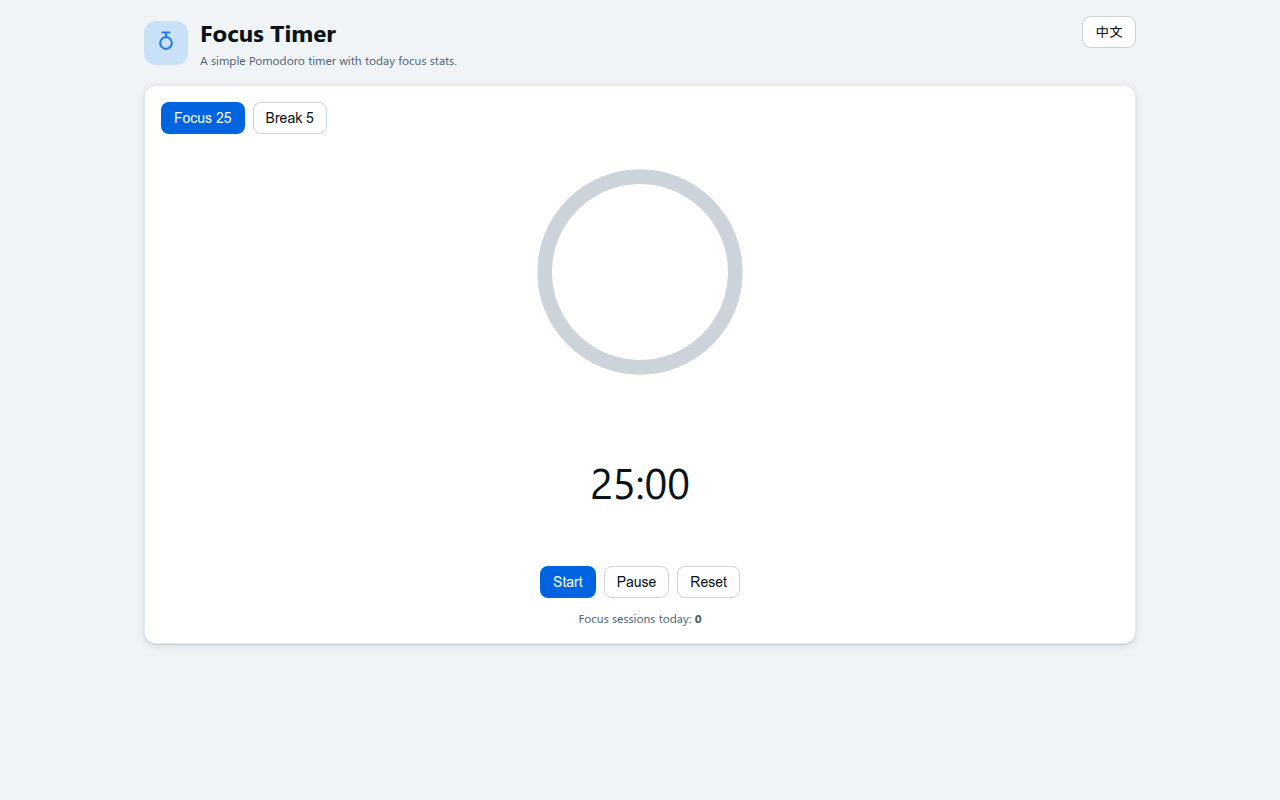
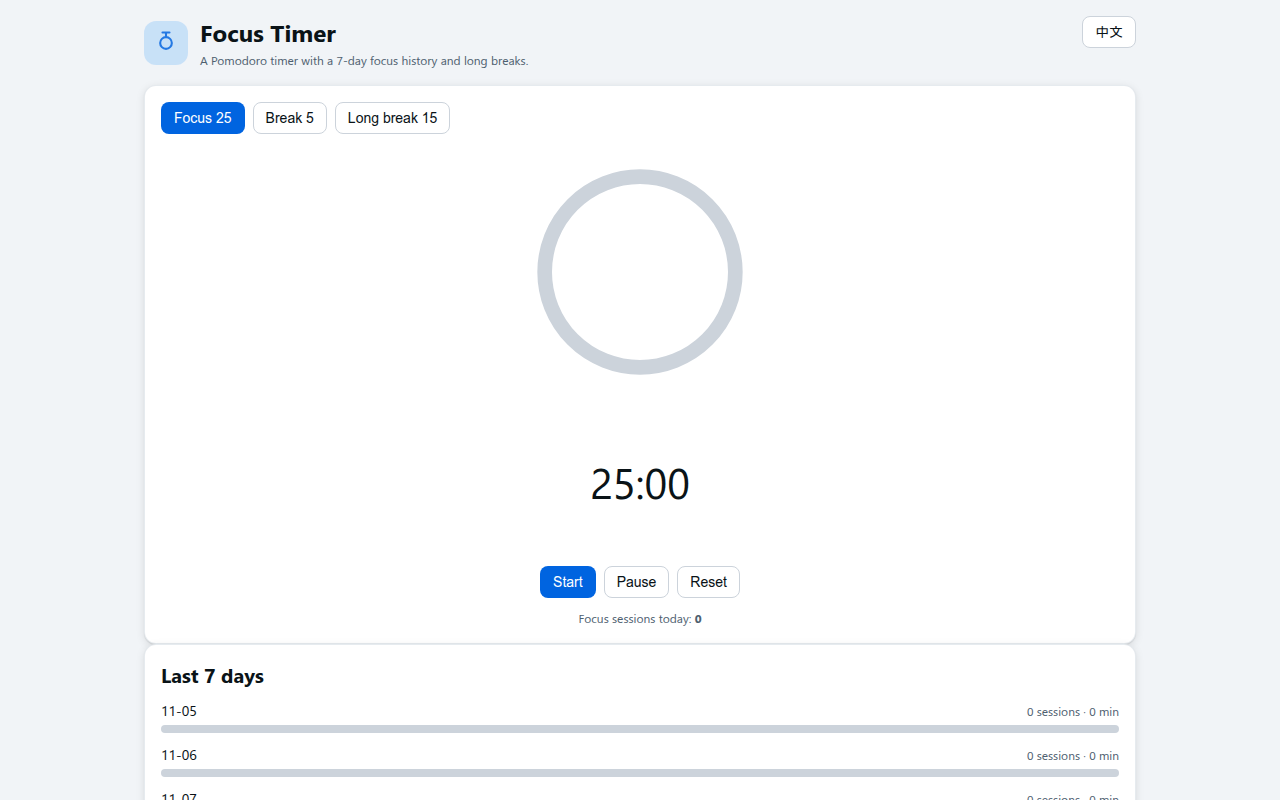
feat: round 4 — 5 template improvements (trivia 40 questions, focus 7-day history + long break, flashcards weakest-first, subscriptions 30-day due, habit completion rate); 34 templates

diff --git a/templates/trivia-quiz/index.html b/templates/trivia-quiz/index.html
@@ -353,8 +353,8 @@ const TIME_LIMIT=15, TICK=100, POINTS=10;
 let S;try{S=JSON.parse(localStorage.getItem(KEY))}catch(e){S=null}
 if(!S||typeof S!=='object'){S={lang:'en',best:0,bestStreak:0}}
 let lang=S.lang==='zh'?'zh':'en';
-const T={en:{sub:'Ten quick questions. Fifteen seconds each. How far can your streak go?',score:'Score',streak:'Streak',best:'Best score',startTitle:'Pick a category, start a round',pickCategory:'Each round draws ten questions from the bank. A single category has six.',catAll:'All',catGeneral:'General',catScience:'Science',catHistory:'History',catFood:'Food',roundInfo:'{n} questions · 15 seconds each · 10 points per correct answer',startBtn:'Start quiz',nextBtn:'Next question',seeResult:'See result',resultTitle:'Round over',yourScore:'Your score',correctCount:'Correct answers',accuracy:'Accuracy',bestStreak:'Best streak',reviewTitle:'Review your misses',reviewEmpty:'A perfect round — nothing to review.',newRound:'New round',questionOf:'Question {a} of {b}',secondsLeft:'{n}s left',correctFb:'Correct! +10 points.',wrongFb:'Not quite — the right answer is marked.',timeoutFb:'Time is up — the right answer is marked.',yourAnswer:'Your answer',correctAnswer:'Correct answer',timedOut:'Timed out'},
-zh:{sub:'十道快问快答，每题 15 秒，看看你的连胜能走多远。',score:'得分',streak:'连胜',best:'最高分',startTitle:'选个分类，开始一轮',pickCategory:'每轮从题库抽 10 道题，单选一个分类时只有 6 道。',catAll:'全部',catGeneral:'常识',catScience:'科学',catHistory:'历史',catFood:'美食',roundInfo:'共 {n} 题 · 每题 15 秒 · 答对得 10 分',startBtn:'开始答题',nextBtn:'下一题',seeResult:'查看结果',resultTitle:'本轮结束',yourScore:'你的得分',correctCount:'答对题数',accuracy:'正确率',bestStreak:'最长连胜',reviewTitle:'错题回顾',reviewEmpty:'满分一轮，没有错题。',newRound:'再来一轮',questionOf:'第 {a} / {b} 题',secondsLeft:'还剩 {n} 秒',correctFb:'答对了！+10 分。',wrongFb:'不对，正确答案已标出。',timeoutFb:'时间到，正确答案已标出。',yourAnswer:'你的答案',correctAnswer:'正确答案',timedOut:'超时未答'}};
+const T={en:{sub:'Ten quick questions. Fifteen seconds each. How far can your streak go?',score:'Score',streak:'Streak',best:'Best score',startTitle:'Pick a category, start a round',pickCategory:'Each round draws ten questions from the bank. Every category has ten.',catAll:'All',catGeneral:'General',catScience:'Science',catHistory:'History',catFood:'Food',roundInfo:'{n} questions · 15 seconds each · 10 points per correct answer',startBtn:'Start quiz',nextBtn:'Next question',seeResult:'See result',resultTitle:'Round over',yourScore:'Your score',correctCount:'Correct answers',accuracy:'Accuracy',bestStreak:'Best streak',reviewTitle:'Review your misses',reviewEmpty:'A perfect round — nothing to review.',newRound:'New round',questionOf:'Question {a} of {b}',secondsLeft:'{n}s left',correctFb:'Correct! +10 points.',wrongFb:'Not quite — the right answer is marked.',timeoutFb:'Time is up — the right answer is marked.',yourAnswer:'Your answer',correctAnswer:'Correct answer',timedOut:'Timed out'},
+zh:{sub:'十道快问快答，每题 15 秒，看看你的连胜能走多远。',score:'得分',streak:'连胜',best:'最高分',startTitle:'选个分类，开始一轮',pickCategory:'每轮从题库抽 10 道题，每个分类都有 10 道。',catAll:'全部',catGeneral:'常识',catScience:'科学',catHistory:'历史',catFood:'美食',roundInfo:'共 {n} 题 · 每题 15 秒 · 答对得 10 分',startBtn:'开始答题',nextBtn:'下一题',seeResult:'查看结果',resultTitle:'本轮结束',yourScore:'你的得分',correctCount:'答对题数',accuracy:'正确率',bestStreak:'最长连胜',reviewTitle:'错题回顾',reviewEmpty:'满分一轮，没有错题。',newRound:'再来一轮',questionOf:'第 {a} / {b} 题',secondsLeft:'还剩 {n} 秒',correctFb:'答对了！+10 分。',wrongFb:'不对，正确答案已标出。',timeoutFb:'时间到，正确答案已标出。',yourAnswer:'你的答案',correctAnswer:'正确答案',timedOut:'超时未答'}};
 
 const Q=[
 {c:'general',q:{en:'Which planet is known as the Red Planet?',zh:'哪颗行星被称为红色星球？'},o:[{en:'Venus',zh:'金星'},{en:'Mars',zh:'火星'},{en:'Jupiter',zh:'木星'},{en:'Saturn',zh:'土星'}],a:1},
@@ -363,24 +363,40 @@ const Q=[
 {c:'general',q:{en:'Which animal is the largest land mammal?',zh:'哪种动物是最大的陆生哺乳动物？'},o:[{en:'Giraffe',zh:'长颈鹿'},{en:'Hippopotamus',zh:'河马'},{en:'African elephant',zh:'非洲象'},{en:'Polar bear',zh:'北极熊'}],a:2},
 {c:'general',q:{en:'How many minutes are in a full day?',zh:'一天共有多少分钟？'},o:[{en:'720',zh:'720'},{en:'1200',zh:'1200'},{en:'1440',zh:'1440'},{en:'1600',zh:'1600'}],a:2},
 {c:'general',q:{en:'What is the capital of Australia?',zh:'澳大利亚的首都是哪里？'},o:[{en:'Sydney',zh:'悉尼'},{en:'Melbourne',zh:'墨尔本'},{en:'Canberra',zh:'堪培拉'},{en:'Perth',zh:'珀斯'}],a:2},
+{c:'general',q:{en:'On which continent is the Sahara Desert located?',zh:'撒哈拉沙漠位于哪个大洲？'},o:[{en:'Asia',zh:'亚洲'},{en:'Africa',zh:'非洲'},{en:'South America',zh:'南美洲'},{en:'Australia',zh:'大洋洲'}],a:1},
+{c:'general',q:{en:'How many colours are there in a rainbow?',zh:'彩虹有几种颜色？'},o:[{en:'Five',zh:'五种'},{en:'Six',zh:'六种'},{en:'Seven',zh:'七种'},{en:'Eight',zh:'八种'}],a:2},
+{c:'general',q:{en:'What is the smallest prime number?',zh:'最小的质数是几？'},o:[{en:'0',zh:'0'},{en:'1',zh:'1'},{en:'2',zh:'2'},{en:'3',zh:'3'}],a:2},
+{c:'general',q:{en:'Which instrument has 88 keys?',zh:'哪种乐器有 88 个琴键？'},o:[{en:'Guitar',zh:'吉他'},{en:'Violin',zh:'小提琴'},{en:'Piano',zh:'钢琴'},{en:'Harp',zh:'竖琴'}],a:2},
 {c:'science',q:{en:'What is the chemical symbol for gold?',zh:'金的化学符号是什么？'},o:[{en:'Ag',zh:'Ag'},{en:'Au',zh:'Au'},{en:'Gd',zh:'Gd'},{en:'Go',zh:'Go'}],a:1},
 {c:'science',q:{en:'Which gas do plants absorb from the air?',zh:'植物从空气中吸收哪种气体？'},o:[{en:'Oxygen',zh:'氧气'},{en:'Nitrogen',zh:'氮气'},{en:'Carbon dioxide',zh:'二氧化碳'},{en:'Hydrogen',zh:'氢气'}],a:2},
 {c:'science',q:{en:'How many legs does a spider have?',zh:'蜘蛛有几条腿？'},o:[{en:'Six',zh:'六条'},{en:'Eight',zh:'八条'},{en:'Ten',zh:'十条'},{en:'Twelve',zh:'十二条'}],a:1},
 {c:'science',q:{en:'What force keeps the planets in orbit around the Sun?',zh:'是什么力让行星绕太阳运转？'},o:[{en:'Magnetism',zh:'磁力'},{en:'Friction',zh:'摩擦力'},{en:'Gravity',zh:'引力'},{en:'Inertia',zh:'惯性'}],a:2},
 {c:'science',q:{en:'Which part of the cell is known as its powerhouse?',zh:'细胞中被称为能量工厂的是哪一部分？'},o:[{en:'Nucleus',zh:'细胞核'},{en:'Ribosome',zh:'核糖体'},{en:'Mitochondria',zh:'线粒体'},{en:'Golgi body',zh:'高尔基体'}],a:2},
 {c:'science',q:{en:'At what temperature Celsius does water boil at sea level?',zh:'海平面上，水在多少摄氏度沸腾？'},o:[{en:'90°C',zh:'90°C'},{en:'95°C',zh:'95°C'},{en:'100°C',zh:'100°C'},{en:'110°C',zh:'110°C'}],a:2},
+{c:'science',q:{en:'What is the chemical formula of water?',zh:'水的化学式是什么？'},o:[{en:'CO2',zh:'CO2'},{en:'O2',zh:'O2'},{en:'H2O',zh:'H2O'},{en:'NaCl',zh:'NaCl'}],a:2},
+{c:'science',q:{en:'Which planet is closest to the Sun?',zh:'哪颗行星离太阳最近？'},o:[{en:'Venus',zh:'金星'},{en:'Mercury',zh:'水星'},{en:'Earth',zh:'地球'},{en:'Mars',zh:'火星'}],a:1},
+{c:'science',q:{en:'Which gas do humans need to breathe to stay alive?',zh:'人类呼吸需要哪种气体才能存活？'},o:[{en:'Carbon dioxide',zh:'二氧化碳'},{en:'Nitrogen',zh:'氮气'},{en:'Oxygen',zh:'氧气'},{en:'Hydrogen',zh:'氢气'}],a:2},
+{c:'science',q:{en:'How many bones are in the adult human body?',zh:'成年人全身有多少块骨头？'},o:[{en:'106',zh:'106'},{en:'206',zh:'206'},{en:'306',zh:'306'},{en:'406',zh:'406'}],a:1},
 {c:'history',q:{en:'In which year did humans first land on the Moon?',zh:'人类在哪一年首次登上月球？'},o:[{en:'1959',zh:'1959年'},{en:'1969',zh:'1969年'},{en:'1975',zh:'1975年'},{en:'1981',zh:'1981年'}],a:1},
 {c:'history',q:{en:'Which ancient civilization built the pyramids of Giza?',zh:'吉萨金字塔是哪个古代文明建造的？'},o:[{en:'Romans',zh:'罗马人'},{en:'Greeks',zh:'希腊人'},{en:'Egyptians',zh:'埃及人'},{en:'Aztecs',zh:'阿兹特克人'}],a:2},
 {c:'history',q:{en:'Who painted the Mona Lisa?',zh:'《蒙娜丽莎》是谁画的？'},o:[{en:'Michelangelo',zh:'米开朗基罗'},{en:'Raphael',zh:'拉斐尔'},{en:'Leonardo da Vinci',zh:'列奥纳多·达·芬奇'},{en:'Rembrandt',zh:'伦勃朗'}],a:2},
 {c:'history',q:{en:'The Great Wall is located in which country?',zh:'长城位于哪个国家？'},o:[{en:'Japan',zh:'日本'},{en:'China',zh:'中国'},{en:'India',zh:'印度'},{en:'Korea',zh:'韩国'}],a:1},
 {c:'history',q:{en:'Which ship famously sank on its maiden voyage in 1912?',zh:'哪艘船在 1912 年首航时沉没？'},o:[{en:'Lusitania',zh:'卢西塔尼亚号'},{en:'Titanic',zh:'泰坦尼克号'},{en:'Queen Mary',zh:'玛丽女王号'},{en:'Bismarck',zh:'俾斯麦号'}],a:1},
 {c:'history',q:{en:'In which year did World War II end?',zh:'第二次世界大战在哪一年结束？'},o:[{en:'1943',zh:'1943年'},{en:'1944',zh:'1944年'},{en:'1945',zh:'1945年'},{en:'1947',zh:'1947年'}],a:2},
+{c:'history',q:{en:'Who was the first President of the United States?',zh:'美国第一任总统是谁？'},o:[{en:'Abraham Lincoln',zh:'亚伯拉罕·林肯'},{en:'Thomas Jefferson',zh:'托马斯·杰斐逊'},{en:'George Washington',zh:'乔治·华盛顿'},{en:'John Adams',zh:'约翰·亚当斯'}],a:2},
+{c:'history',q:{en:'In which year did the Berlin Wall fall?',zh:'柏林墙在哪一年倒塌？'},o:[{en:'1979',zh:'1979年'},{en:'1985',zh:'1985年'},{en:'1989',zh:'1989年'},{en:'1991',zh:'1991年'}],a:2},
+{c:'history',q:{en:'Which empire built the Colosseum in Rome?',zh:'罗马斗兽场是哪个帝国建造的？'},o:[{en:'Greek Empire',zh:'希腊帝国'},{en:'Ottoman Empire',zh:'奥斯曼帝国'},{en:'Roman Empire',zh:'罗马帝国'},{en:'Persian Empire',zh:'波斯帝国'}],a:2},
+{c:'history',q:{en:'Who is credited with inventing the movable-type printing press?',zh:'活字印刷术一般认为是谁发明的？'},o:[{en:'Isaac Newton',zh:'艾萨克·牛顿'},{en:'Johannes Gutenberg',zh:'约翰内斯·古腾堡'},{en:'Leonardo da Vinci',zh:'列奥纳多·达·芬奇'},{en:'Galileo Galilei',zh:'伽利略'}],a:1},
 {c:'food',q:{en:'Which fruit is called the king of fruits in Southeast Asia?',zh:'哪种水果被称为东南亚的水果之王？'},o:[{en:'Mango',zh:'芒果'},{en:'Durian',zh:'榴莲'},{en:'Papaya',zh:'木瓜'},{en:'Lychee',zh:'荔枝'}],a:1},
 {c:'food',q:{en:'What is the main ingredient in guacamole?',zh:'鳄梨酱的主要原料是什么？'},o:[{en:'Tomato',zh:'番茄'},{en:'Avocado',zh:'鳄梨'},{en:'Onion',zh:'洋葱'},{en:'Lime',zh:'青柠'}],a:1},
 {c:'food',q:{en:'Which country is the origin of sushi?',zh:'寿司起源于哪个国家？'},o:[{en:'China',zh:'中国'},{en:'Thailand',zh:'泰国'},{en:'Japan',zh:'日本'},{en:'Korea',zh:'韩国'}],a:2},
 {c:'food',q:{en:'What spice gives curry its yellow color?',zh:'哪种香料让咖喱呈现黄色？'},o:[{en:'Paprika',zh:'红椒粉'},{en:'Cumin',zh:'孜然'},{en:'Turmeric',zh:'姜黄'},{en:'Saffron',zh:'藏红花'}],a:2},
 {c:'food',q:{en:'Which cheese is traditionally used on pizza?',zh:'披萨传统上用哪种奶酪？'},o:[{en:'Cheddar',zh:'切达奶酪'},{en:'Mozzarella',zh:'马苏里拉奶酪'},{en:'Brie',zh:'布里奶酪'},{en:'Gouda',zh:'高达奶酪'}],a:1},
-{c:'food',q:{en:'What is the main ingredient in hummus?',zh:'鹰嘴豆泥的主要原料是什么？'},o:[{en:'Lentils',zh:'扁豆'},{en:'Chickpeas',zh:'鹰嘴豆'},{en:'Black beans',zh:'黑豆'},{en:'Peanuts',zh:'花生'}],a:1}
+{c:'food',q:{en:'What is the main ingredient in hummus?',zh:'鹰嘴豆泥的主要原料是什么？'},o:[{en:'Lentils',zh:'扁豆'},{en:'Chickpeas',zh:'鹰嘴豆'},{en:'Black beans',zh:'黑豆'},{en:'Peanuts',zh:'花生'}],a:1},
+{c:'food',q:{en:'Which vegetable is Popeye famous for eating?',zh:'大力水手最爱吃什么蔬菜？'},o:[{en:'Broccoli',zh:'西兰花'},{en:'Spinach',zh:'菠菜'},{en:'Carrots',zh:'胡萝卜'},{en:'Peas',zh:'豌豆'}],a:1},
+{c:'food',q:{en:'What is tofu made from?',zh:'豆腐是用什么做的？'},o:[{en:'Wheat',zh:'小麦'},{en:'Rice',zh:'大米'},{en:'Soybeans',zh:'大豆'},{en:'Chickpeas',zh:'鹰嘴豆'}],a:2},
+{c:'food',q:{en:'Which country is famous for the dish paella?',zh:'海鲜饭是哪个国家的名菜？'},o:[{en:'Italy',zh:'意大利'},{en:'Portugal',zh:'葡萄牙'},{en:'Spain',zh:'西班牙'},{en:'Greece',zh:'希腊'}],a:2},
+{c:'food',q:{en:'Which fruit is said to keep the doctor away?',zh:'按俗语说，哪种水果能让医生远离你？'},o:[{en:'Banana',zh:'香蕉'},{en:'Apple',zh:'苹果'},{en:'Orange',zh:'橙子'},{en:'Grapes',zh:'葡萄'}],a:1}
 ];
 
 const t=(k,a,b)=>{let s=(T[lang]&&T[lang][k])||T.en[k]||k;if(a!==undefined){s=s.replace('{a}',a);s=s.replace('{n}',a)}if(b!==undefined){s=s.replace('{b}',b)}return s};

diff --git a/templates/focus-pomodoro/index.html b/templates/focus-pomodoro/index.html
@@ -272,20 +272,29 @@ textarea{resize:vertical}
 <div class="wrap"><main>
 <header class="top"><div class="brand"><span class="logo" aria-hidden="true"><svg width="28" height="28" viewBox="0 0 24 24" fill="none" stroke="currentColor" stroke-width="1.8" stroke-linecap="round" stroke-linejoin="round"><path d="M12 7a5 5 0 1 0 0 10 5 5 0 0 0 0-10z M12 3v4M9 3h6"/></svg></span><div><h1 data-i18n="title"></h1><p class="sub" data-i18n="sub"></p></div></div><button type="button" class="btn-ghost" data-lang-btn>中文</button></header>
 <section class="card stack" aria-label="Timer">
-<div class="row" role="group" aria-label="Mode"><button type="button" class="btn" data-mode="focus">Focus 25</button><button type="button" class="btn-ghost" data-mode="break">Break 5</button></div>
+<div class="row" role="group" aria-label="Mode"><button type="button" class="btn" data-mode="focus">Focus 25</button><button type="button" class="btn-ghost" data-mode="break">Break 5</button><button type="button" class="btn-ghost" data-mode="long" data-i18n="long"></button></div>
 <div class="ring-wrap"><svg class="ring" width="220" height="220" viewBox="0 0 120 120" role="img" aria-label="Timer progress ring"><circle cx="60" cy="60" r="52" fill="none" stroke="var(--color-track)" stroke-width="8"></circle><circle class="ring-fg" data-ring cx="60" cy="60" r="52" fill="none" stroke="var(--color-accent)" stroke-width="8" stroke-linecap="round"></circle></svg></div>
 <p class="timer-num" data-time>25:00</p>
 <div class="row" style="justify-content:center"><button type="button" class="btn" data-start data-i18n="start"></button><button type="button" class="btn-ghost" data-pause data-i18n="pause"></button><button type="button" class="btn-ghost" data-reset data-i18n="reset"></button></div>
 <p class="muted" style="text-align:center;margin:0"><span data-i18n="today"></span>: <strong data-count>0</strong></p>
 </section>
+<section class="card stack" aria-label="History">
+<h2 data-i18n="history"></h2>
+<div class="stack" data-history></div>
+<p class="muted" style="margin:0" data-i18n="historyNote"></p>
+</section>
 </main></div>
 <script>
 
 const KEY='muse-space:focus-pomodoro';
-const STR={en:{title:'Focus Timer',sub:'A simple Pomodoro timer with today focus stats.',start:'Start',pause:'Pause',reset:'Reset',today:'Focus sessions today'},zh:{title:'专注时钟',sub:'番茄钟加今日专注统计。',start:'开始',pause:'暂停',reset:'重置',today:'今日专注次数'}};
+const STR={en:{title:'Focus Timer',sub:'A Pomodoro timer with a 7-day focus history and long breaks.',start:'Start',pause:'Pause',reset:'Reset',today:'Focus sessions today',long:'Long break 15',history:'Last 7 days',sessions:'sessions',minutes:'min',historyNote:'Focus minutes per day, up to 7 days back. Every 4th focus session earns a long break.'},zh:{title:'专注时钟',sub:'番茄钟加近 7 天专注记录与长休。',start:'开始',pause:'暂停',reset:'重置',today:'今日专注次数',long:'长休 15 分钟',history:'近 7 天',sessions:'次',minutes:'分钟',historyNote:'每天专注分钟数，最多回看 7 天。每完成 4 次专注，长休一次。'}};
 const todayStr=new Date().toISOString().slice(0,10);
 let state; try{ state=JSON.parse(localStorage.getItem(KEY)); }catch(e){ state=null; }
-if(!state || state.date!==todayStr){ state={lang:(state&&state.lang)||'en',date:todayStr,count:(state&&state.date===todayStr)?state.count:0}; }
+if(!state || typeof state!=='object'){ state={lang:'en',history:{},cycles:0}; }
+if(!state.history || typeof state.history!=='object'){ state.history={}; }
+if(typeof state.cycles!=='number'){ state.cycles=0; }
+if(typeof state.count==='number' && state.date && !state.history[state.date]){ state.history[state.date]={count:state.count,minutes:state.count*25}; delete state.count; delete state.date; }
+if(!state.history[todayStr]){ state.history[todayStr]={count:0,minutes:0}; }
 
 let lang = (state && state.lang) || 'en';
 function t(k){ return STR[lang][k] || STR.en[k] || k; }
@@ -294,16 +303,18 @@ document.querySelector('[data-lang-btn]').addEventListener('click', function(){ 
 function esc(s){ return String(s==null?'':s).replace(/[&<>"']/g, function(c){ return {'&':'&amp;','<':'&lt;','>':'&gt;','"':'&quot;',"'":'&#39;'}[c]; }); }
 function uid(){ return Date.now().toString(36) + Math.random().toString(36).slice(2,7); }
 
-function save(){ localStorage.setItem(KEY, JSON.stringify(state)); }
+function save(){ const cutoff=new Date(); cutoff.setDate(cutoff.getDate()-7); Object.keys(state.history).forEach(function(k){ if(k<cutoff.toISOString().slice(0,10)){ delete state.history[k]; } }); localStorage.setItem(KEY, JSON.stringify(state)); }
 let mode='focus', total=25*60, left=total, timer=null;
 const ring=document.querySelector('[data-ring]'); const CIRC=2*Math.PI*52; ring.style.strokeDasharray=CIRC;
-function draw(){ const m=String(Math.floor(left/60)).padStart(2,'0'), s=String(left%60).padStart(2,'0'); document.querySelector('[data-time]').textContent=m+':'+s; ring.style.strokeDashoffset=CIRC*(1-(total-left)/total); document.querySelector('[data-count]').textContent=state.count; }
+function todayEntry(){ if(!state.history[todayStr]){ state.history[todayStr]={count:0,minutes:0}; } return state.history[todayStr]; }
+function draw(){ const m=String(Math.floor(left/60)).padStart(2,'0'), s=String(left%60).padStart(2,'0'); document.querySelector('[data-time]').textContent=m+':'+s; ring.style.strokeDashoffset=CIRC*(1-(total-left)/total); document.querySelector('[data-count]').textContent=todayEntry().count; renderHistory(); }
+function renderHistory(){ const box=document.querySelector('[data-history]'); if(!box){ return; } const days=[]; for(let i=6;i>=0;i--){ const d=new Date(); d.setDate(d.getDate()-i); days.push(d.toISOString().slice(0,10)); } const maxMin=Math.max.apply(null, days.map(function(ds){ return (state.history[ds]||{minutes:0}).minutes; }).concat([25])); box.innerHTML=days.map(function(ds){ const e=state.history[ds]||{count:0,minutes:0}; const pct=Math.round(e.minutes/maxMin*100); return '<div><div class="row"><span>'+esc(ds.slice(5))+'</span><span class="grow"></span><span class="muted">'+e.count+' '+t('sessions')+' · '+e.minutes+' '+t('minutes')+'</span></div><div class="progress" style="margin-top:var(--spacing-1)"><div class="progress-bar" style="width:'+pct+'%"></div></div></div>'; }).join(''); }
 function stop(){ if(timer){ clearInterval(timer); timer=null; } }
-document.querySelectorAll('[data-mode]').forEach(function(b){ b.addEventListener('click', function(){ stop(); mode=b.dataset.mode; total=mode==='focus'?25*60:5*60; left=total; draw(); }); });
-document.querySelector('[data-start]').addEventListener('click', function(){ if(timer){return;} timer=setInterval(function(){ left--; if(left<=0){ stop(); left=0; if(mode==='focus'){ state.count++; save(); } } draw(); },1000); });
+document.querySelectorAll('[data-mode]').forEach(function(b){ b.addEventListener('click', function(){ stop(); mode=b.dataset.mode; total=mode==='focus'?25*60:mode==='long'?15*60:5*60; left=total; draw(); }); });
+document.querySelector('[data-start]').addEventListener('click', function(){ if(timer){return;} timer=setInterval(function(){ left--; if(left<=0){ stop(); left=0; if(mode==='focus'){ const e=todayEntry(); e.count++; e.minutes+=25; state.cycles++; save(); if(state.cycles%4===0){ mode='long'; total=15*60; left=total; } } } draw(); },1000); });
 document.querySelector('[data-pause]').addEventListener('click', stop);
 document.querySelector('[data-reset]').addEventListener('click', function(){ stop(); left=total; draw(); });
-applyI18n(); draw();
+save(); applyI18n(); draw();
 
 </script>
 </body>

diff --git a/templates/flashcard-review/index.html b/templates/flashcard-review/index.html
@@ -283,6 +283,7 @@ footer{color:var(--color-text-disabled);text-align:center;margin-top:var(--spaci
 <div class="stat"><span class="muted small" data-i18n="mastery">Mastery</span><b id="statPct">0%</b></div>
 </div>
 <div class="bar" role="progressbar" aria-label="Mastery progress"><i id="masteryBar"></i></div>
+<p class="small muted" id="levelBreak" style="margin-top:var(--spacing-2)"></p>
 </section>
 <section class="card" aria-label="Review card">
 <p class="small muted center" id="counter">Card 0 of 0</p>
@@ -297,6 +298,7 @@ footer{color:var(--color-text-disabled);text-align:center;margin-top:var(--spaci
 <div class="actions">
 <button class="btn btn-ghost" id="prevBtn" type="button" data-i18n="prev">Prev</button>
 <button class="btn btn-ghost" id="shuffleBtn" type="button" data-i18n="shuffle">Shuffle</button>
+<button class="btn btn-ghost" id="weakBtn" type="button">Weakest first</button>
 <button class="btn btn-danger" id="dontBtn" type="button" data-i18n="dont">Don't know</button>
 <button class="btn btn-ok" id="knowBtn" type="button" data-i18n="know">Know it</button>
 <button class="btn btn-ghost" id="nextBtn" type="button" data-i18n="next">Next</button>
@@ -318,10 +320,10 @@ footer{color:var(--color-text-disabled);text-align:center;margin-top:var(--spaci
 <script>
 const KEY='muse-space:flashcard-review';
 const I18N={
-en:{title:'Flashcards',sub:'Spaced repetition flashcards with mastery levels.',total:'Cards',mastered:'Mastered',mastery:'Mastery',tapFlip:'Tap to flip',prev:'Prev',next:'Next',shuffle:'Shuffle',know:'Know it',dont:"Don't know",del:'Delete card',addTitle:'Add a card',front:'Front',back:'Back',add:'Add card',empty:'No cards yet. Add your first card.',card:'Card',of:'of',level:'Level'},
-zh:{title:'闪卡复习',sub:'间隔重复闪卡，跟踪掌握度。',total:'卡片数',mastered:'已掌握',mastery:'掌握度',tapFlip:'点按翻面',prev:'上一张',next:'下一张',shuffle:'打乱',know:'认识',dont:'不认识',del:'删卡',addTitle:'添加卡片',front:'正面',back:'背面',add:'添加',empty:'还没有卡片，添加第一张。',card:'第',of:'/',level:'等级'}};
+en:{title:'Flashcards',sub:'Spaced repetition flashcards with mastery levels.',total:'Cards',mastered:'Mastered',mastery:'Mastery',tapFlip:'Tap to flip',prev:'Prev',next:'Next',shuffle:'Shuffle',weakFirst:'Weakest first',inOrder:'In order',know:'Know it',dont:"Don't know",del:'Delete card',addTitle:'Add a card',front:'Front',back:'Back',add:'Add card',empty:'No cards yet. Add your first card.',card:'Card',of:'of',level:'Level'},
+zh:{title:'闪卡复习',sub:'间隔重复闪卡，跟踪掌握度。',total:'卡片数',mastered:'已掌握',mastery:'掌握度',tapFlip:'点按翻面',prev:'上一张',next:'下一张',shuffle:'打乱',weakFirst:'先练最弱',inOrder:'按顺序',know:'认识',dont:'不认识',del:'删卡',addTitle:'添加卡片',front:'正面',back:'背面',add:'添加',empty:'还没有卡片，添加第一张。',card:'第',of:'/',level:'等级'}};
 let uid=1;
-function defaults(){return {lang:'en',idx:0,flipped:false,cards:[
+function defaults(){return {lang:'en',idx:0,flipped:false,weakFirst:false,cards:[
 {id:uid++,front:'serendipity',back:'意外发现珍宝的运气；机缘巧合',level:2},
 {id:uid++,front:'resilient',back:'有韧性的；能快速恢复的',level:1},
 {id:uid++,front:'ephemeral',back:'短暂的；瞬息的',level:0},
@@ -330,8 +332,10 @@ function defaults(){return {lang:'en',idx:0,flipped:false,cards:[
 {id:uid++,front:'algorithm',back:'算法；解决问题的一组步骤',level:2}]}}
 let S;try{S=JSON.parse(localStorage.getItem(KEY))||defaults()}catch(e){S=defaults()}
 if(!S||!Array.isArray(S.cards))S=defaults();
+if(typeof S.weakFirst!=='boolean'){S.weakFirst=false}
 uid=S.cards.reduce(function(m,c){return Math.max(m,c.id)},0)+1;
 if(S.idx>=S.cards.length)S.idx=0;
+function order(){ if(!S.weakFirst){ return S.cards.map(function(c,i){return i}); } return S.cards.map(function(c,i){return i}).sort(function(a,b){ return S.cards[a].level-S.cards[b].level; }); }
 function save(){localStorage.setItem(KEY,JSON.stringify(S))}
 function t(k){return (I18N[S.lang]&&I18N[S.lang][k])||I18N.en[k]||k}
 function esc(s){return String(s).replace(/&/g,'&amp;').replace(/</g,'&lt;').replace(/>/g,'&gt;').replace(/"/g,'&quot;')}
@@ -344,7 +348,13 @@ document.getElementById('statTotal').textContent=total;
 document.getElementById('statMastered').textContent=mastered;
 document.getElementById('statPct').textContent=pct+'%';
 document.getElementById('masteryBar').style.width=pct+'%';
-const cur=S.cards[S.idx];
+const lv=[0,0,0,0]; S.cards.forEach(function(c){ if(c.level>=0&&c.level<=3){ lv[c.level]++; } });
+document.getElementById('levelBreak').textContent='L0 '+lv[0]+' · L1 '+lv[1]+' · L2 '+lv[2]+' · L3 '+lv[3];
+document.getElementById('weakBtn').textContent=S.weakFirst?t('inOrder'):t('weakFirst');
+document.getElementById('shuffleBtn').style.display=S.weakFirst?'none':'';
+const ord=order();
+if(S.idx>=ord.length){S.idx=0}
+const cur=S.cards[ord[S.idx]];
 document.getElementById('counter').textContent=total?(t('card')+' '+(S.idx+1)+' '+t('of')+' '+total):'0 / 0';
 document.getElementById('frontText').textContent=cur?cur.front:'—';
 document.getElementById('backText').textContent=cur?cur.back:'—';
@@ -359,10 +369,11 @@ document.getElementById('flipCard').addEventListener('click',flip);
 document.getElementById('flipCard').addEventListener('keydown',function(e){if(e.key==='Enter'||e.key===' '){e.preventDefault();flip()}});
 document.getElementById('prevBtn').addEventListener('click',function(){go(-1)});
 document.getElementById('nextBtn').addEventListener('click',function(){go(1)});
-document.getElementById('knowBtn').addEventListener('click',function(){const c=S.cards[S.idx];if(!c)return;c.level=Math.min(3,c.level+1);go(1)});
-document.getElementById('dontBtn').addEventListener('click',function(){const c=S.cards[S.idx];if(!c)return;c.level=0;go(1)});
+document.getElementById('knowBtn').addEventListener('click',function(){const c=S.cards[order()[S.idx]];if(!c)return;c.level=Math.min(3,c.level+1);go(1)});
+document.getElementById('dontBtn').addEventListener('click',function(){const c=S.cards[order()[S.idx]];if(!c)return;c.level=0;go(1)});
+document.getElementById('weakBtn').addEventListener('click',function(){S.weakFirst=!S.weakFirst;S.idx=0;S.flipped=false;save();render()});
 document.getElementById('shuffleBtn').addEventListener('click',function(){for(let i=S.cards.length-1;i>0;i--){const j=Math.floor(Math.random()*(i+1));const tmp=S.cards[i];S.cards[i]=S.cards[j];S.cards[j]=tmp}S.idx=0;S.flipped=false;save();render()});
-document.getElementById('delBtn').addEventListener('click',function(){if(!S.cards.length)return;S.cards.splice(S.idx,1);if(S.idx>=S.cards.length)S.idx=Math.max(0,S.cards.length-1);S.flipped=false;save();render()});
+document.getElementById('delBtn').addEventListener('click',function(){if(!S.cards.length)return;S.cards.splice(order()[S.idx],1);if(S.idx>=S.cards.length)S.idx=Math.max(0,S.cards.length-1);S.flipped=false;save();render()});
 document.getElementById('form').addEventListener('submit',function(e){e.preventDefault();const f=new FormData(e.target);const front=String(f.get('front')).trim(),back=String(f.get('back')).trim();if(!front||!back)return;S.cards.push({id:uid++,front:front,back:back,level:0});S.idx=S.cards.length-1;S.flipped=false;save();e.target.reset();render()});
 document.getElementById('langBtn').addEventListener('click',function(){S.lang=S.lang==='en'?'zh':'en';save();render()});
 save();render();

diff --git a/templates/subscription-tracker/index.html b/templates/subscription-tracker/index.html
@@ -288,6 +288,7 @@ footer{color:var(--color-text-disabled);font-size:var(--text-supporting-size);te
 <div class="stat"><b id="stMonth">–</b><span data-i="perMonth"></span></div>
 <div class="stat"><b id="stYear">–</b><span data-i="perYear"></span></div>
 <div class="stat"><b id="stCount">–</b><span data-i="active"></span></div>
+<div class="stat"><b id="stDue30">–</b><span data-i="due30"></span></div>
 </section>
 <section class="card" aria-label="Add subscription">
 <h2 data-i="addTitle"></h2>
@@ -322,25 +323,27 @@ const esc=s=>String(s??'').replace(/[&<>"]/g,c=>({'&':'&amp;','<':'&lt;','>':'&g
 const today=()=>new Date().toISOString().slice(0,10);
 const uid=()=>Date.now().toString(36)+Math.random().toString(36).slice(2,7);
 
-const T={en:{sub:'List every subscription, renewal date and yearly cost.',perMonth:'Per month (avg)',perYear:'Per year',active:'Active subscriptions',addTitle:'Add a subscription',name:'Name',namePh:'e.g. Music streaming',price:'Price',cycle:'Cycle',monthly:'Monthly',yearly:'Yearly',nextDate:'Next renewal',addBtn:'Add subscription',listTitle:'Your subscriptions',emptyAll:'No subscriptions yet. Add your first one above.',dueSoon:'Due soon',days:'days',today:'Today',del:'Delete'},
-zh:{sub:'订阅清单、续费日期与年支出，一屏看清。',perMonth:'月均支出',perYear:'年支出',active:'订阅数量',addTitle:'添加订阅',name:'名称',namePh:'如：音乐会员',price:'价格',cycle:'周期',monthly:'每月',yearly:'每年',nextDate:'下次续费',addBtn:'添加订阅',listTitle:'我的订阅',emptyAll:'还没有订阅，在上面添加第一个。',dueSoon:'即将续费',days:'天后',today:'今天',del:'删除'}};
+const T={en:{sub:'List every subscription, renewal date and yearly cost.',perMonth:'Per month (avg)',perYear:'Per year',active:'Active subscriptions',due30:'Due in 30 days',addTitle:'Add a subscription',name:'Name',namePh:'e.g. Music streaming',price:'Price',cycle:'Cycle',monthly:'Monthly',yearly:'Yearly',nextDate:'Next renewal',addBtn:'Add subscription',listTitle:'Your subscriptions',emptyAll:'No subscriptions yet. Add your first one above.',dueSoon:'Due soon',days:'days',today:'Today',del:'Delete'},
+zh:{sub:'订阅清单、续费日期与年支出，一屏看清。',perMonth:'月均支出',perYear:'年支出',active:'订阅数量',due30:'30 天内续费',addTitle:'添加订阅',name:'名称',namePh:'如：音乐会员',price:'价格',cycle:'周期',monthly:'每月',yearly:'每年',nextDate:'下次续费',addBtn:'添加订阅',listTitle:'我的订阅',emptyAll:'还没有订阅，在上面添加第一个。',dueSoon:'即将续费',days:'天后',today:'今天',del:'删除'}};
 let S;try{S=JSON.parse(localStorage.getItem(KEY))}catch(e){S=null}
 if(!S||!Array.isArray(S.subs)){const d=n=>{const x=new Date();x.setDate(x.getDate()+n);return x.toISOString().slice(0,10)};
  S={lang:lang,subs:[{id:uid(),name:'Video streaming',price:15.49,cycle:'monthly',next:d(4)},{id:uid(),name:'Music streaming',price:10.99,cycle:'monthly',next:d(12)},{id:uid(),name:'Cloud storage 2TB',price:99.99,cycle:'yearly',next:d(40)},{id:uid(),name:'AI assistant Pro',price:20,cycle:'monthly',next:d(6)},{id:uid(),name:'Fitness app',price:59.99,cycle:'yearly',next:d(90)}]}}
 lang=S.lang||lang;
 function save(){S.lang=lang;localStorage.setItem(KEY,JSON.stringify(S))}
 const monthly=s=>s.cycle==='monthly'?+s.price:+s.price/12;
+const yearly=s=>s.cycle==='monthly'?+s.price*12:+s.price;
 const daysTo=ds=>Math.round((new Date(ds+'T00:00:00')-new Date(today()+'T00:00:00'))/86400000);
 function render(){
  const m=S.subs.reduce((a,s)=>a+monthly(s),0);
  document.getElementById('stMonth').textContent=money(m);
  document.getElementById('stYear').textContent=money(m*12);
  document.getElementById('stCount').textContent=S.subs.length;
+ document.getElementById('stDue30').textContent=money(S.subs.filter(s=>{const dd=daysTo(s.next);return dd>=0&&dd<=30}).reduce((a,s)=>a+ +s.price,0));
  const list=document.getElementById('sList');list.innerHTML='';
  document.getElementById('sEmpty').hidden=S.subs.length>0;
  [...S.subs].sort((a,b)=>a.next.localeCompare(b.next)).forEach(s=>{const dd=daysTo(s.next),soon=dd>=0&&dd<=7;
   const d=document.createElement('div');d.className='item';
-  d.innerHTML='<div><span class="strong">'+esc(s.name)+'</span>'+(soon?'<span class="badge">'+t('dueSoon')+'</span>':'')+'<br><span class="muted">'+money(s.price)+' / '+(s.cycle==='monthly'?t('monthly'):t('yearly'))+' · '+esc(s.next)+' · '+(dd===0?t('today'):dd+' '+t('days'))+'</span></div><button class="del" type="button" aria-label="'+t('del')+'">×</button>';
+  d.innerHTML='<div><span class="strong">'+esc(s.name)+'</span>'+(soon?'<span class="badge">'+t('dueSoon')+'</span>':'')+'<br><span class="muted">'+money(s.price)+' / '+(s.cycle==='monthly'?t('monthly'):t('yearly'))+' · '+money(yearly(s))+' / yr · '+esc(s.next)+' · '+(dd===0?t('today'):dd+' '+t('days'))+'</span></div><button class="del" type="button" aria-label="'+t('del')+'">×</button>';
   d.querySelector('.del').addEventListener('click',()=>{S.subs=S.subs.filter(x=>x.id!==s.id);save();render();});
   list.appendChild(d);});
 }

diff --git a/templates/habit-tracker/index.html b/templates/habit-tracker/index.html
@@ -275,11 +275,12 @@ textarea{resize:vertical}
 <section class="stack" data-list style="margin-top:var(--spacing-3)"></section>
 <p class="empty" data-empty hidden></p>
 <p class="muted" data-i18n="weekLabel"></p>
+<p class="muted" data-today-summary></p>
 </main></div>
 <script>
 
 const KEY='muse-space:habit-tracker';
-const STR={en:{title:'Habit Tracker',sub:'Track streaks and check in every day.',add:'Add habit',phName:'Habit, e.g. Read 20 minutes',check:'Check in',done:'Done today',del:'Delete',streak:'day streak',weekLabel:'Last 7 days, left to right.',empty:'No habits yet. Add your first habit above.'},zh:{title:'习惯打卡',sub:'记录连续天数，每天打卡。',add:'添加习惯',phName:'习惯，如 阅读 20 分钟',check:'今日打卡',done:'今日已打卡',del:'删除',streak:'天连续',weekLabel:'近 7 天，从左到右。',empty:'还没有习惯，在上面添加第一个。'}};
+const STR={en:{title:'Habit Tracker',sub:'Track streaks and check in every day.',add:'Add habit',phName:'Habit, e.g. Read 20 minutes',check:'Check in',done:'Done today',del:'Delete',streak:'day streak',weekLabel:'Last 7 days, left to right.',todayLabel:'Habits done today',empty:'No habits yet. Add your first habit above.'},zh:{title:'习惯打卡',sub:'记录连续天数，每天打卡。',add:'添加习惯',phName:'习惯，如 阅读 20 分钟',check:'今日打卡',done:'今日已打卡',del:'删除',streak:'天连续',weekLabel:'近 7 天，从左到右。',todayLabel:'今日已打卡',empty:'还没有习惯，在上面添加第一个。'}};
 let state; try{ state=JSON.parse(localStorage.getItem(KEY)); }catch(e){ state=null; }
 if(!state || !Array.isArray(state.items)){ state={lang:'en',items:[{id:uid(),name:'Read 20 minutes',streak:5,days:[true,true,false,true,true,true,false]},{id:uid(),name:'Morning walk',streak:3,days:[false,true,true,false,true,true,false]},{id:uid(),name:'No sugar drinks',streak:8,days:[true,true,true,true,true,false,false]}]}; }
 
@@ -292,7 +293,7 @@ function uid(){ return Date.now().toString(36) + Math.random().toString(36).slic
 
 function save(){ localStorage.setItem(KEY, JSON.stringify(state)); }
 const listEl=document.querySelector('[data-list]'), emptyEl=document.querySelector('[data-empty]');
-function render(){ emptyEl.hidden=state.items.length>0; emptyEl.textContent=t('empty'); listEl.innerHTML=state.items.map(function(h){ const dots=h.days.map(function(d){ return '<span class="dot'+(d?' dot-on':'')+'"></span>'; }).join(''); const todayDone=h.days[6]; return '<article class="card stack"><div class="row"><h3 class="grow">'+esc(h.name)+'</h3><span class="chip-green">'+h.streak+' '+t('streak')+'</span><button type="button" class="btn-danger" data-del="'+h.id+'">'+t('del')+'</button></div><div class="row"><div class="dots" aria-label="Last 7 days">'+dots+'</div><span class="grow"></span><button type="button" class="btn" data-check="'+h.id+'">'+(todayDone?t('done'):t('check'))+'</button></div></article>'; }).join(''); }
+function render(){ emptyEl.hidden=state.items.length>0; emptyEl.textContent=t('empty'); const doneToday=state.items.filter(function(h){ return h.days[6]; }).length; document.querySelector('[data-today-summary]').textContent=state.items.length?t('todayLabel')+': '+doneToday+' / '+state.items.length:''; listEl.innerHTML=state.items.map(function(h){ const dots=h.days.map(function(d){ return '<span class="dot'+(d?' dot-on':'')+'"></span>'; }).join(''); const todayDone=h.days[6]; const doneN=h.days.filter(function(d){ return d; }).length; return '<article class="card stack"><div class="row"><h3 class="grow">'+esc(h.name)+'</h3><span class="chip">'+doneN+'/7 · '+Math.round(doneN/7*100)+'%</span><span class="chip-green">'+h.streak+' '+t('streak')+'</span><button type="button" class="btn-danger" data-del="'+h.id+'">'+t('del')+'</button></div><div class="row"><div class="dots" aria-label="Last 7 days">'+dots+'</div><span class="grow"></span><button type="button" class="btn" data-check="'+h.id+'">'+(todayDone?t('done'):t('check'))+'</button></div></article>'; }).join(''); }
 listEl.addEventListener('click', function(e){ const c=e.target.closest('[data-check]'), d=e.target.closest('[data-del]'); if(c){ const h=state.items.find(function(x){return x.id===c.dataset.check;}); if(h){ if(h.days[6]){ h.days[6]=false; h.streak=Math.max(0,h.streak-1); } else { h.days[6]=true; h.streak++; } save(); render(); } } if(d){ state.items=state.items.filter(function(x){return x.id!==d.dataset.del;}); save(); render(); } });
 document.querySelector('[data-add]').addEventListener('click', function(){ const inp=document.querySelector('[data-f="name"]'); if(!inp.value.trim()){return;} state.items.unshift({id:uid(),name:inp.value.trim(),streak:0,days:[false,false,false,false,false,false,false]}); inp.value=''; save(); render(); });
 applyI18n(); render();

diff --git a/README.md b/README.md
@@ -15,9 +15,9 @@
 | | |
 |---|---|---|
 | ![Expense Tracker template — log expenses by category, data stored locally](docs/screenshots/template-expense-tracker.png) | ![Focus Timer template — Pomodoro countdown ring with today's focus count](docs/screenshots/template-focus-pomodoro.png) |
-| *Expense Tracker: log an expense and see totals by category.* | *Focus Timer: a 25-minute Pomodoro countdown with today's focus count.* |
+| *Expense Tracker: log an expense and see totals by category.* | *Focus Timer: a 25-minute Pomodoro countdown with a 7-day focus history.* |
 | ![Prompt Studio template — prompt list with categories and one-tap copy](docs/screenshots/template-ai-prompt-studio.png) | ![Habit Tracker template — habit list with streaks and 7-day check-in dots](docs/screenshots/template-habit-tracker.png) |
-| *Prompt Studio: saved prompts by category, one tap to copy.* | *Habit Tracker: today's check-ins, streaks, and the last 7 days.* |
+| *Prompt Studio: saved prompts by category, one tap to copy.* | *Habit Tracker: today's check-ins, streaks, completion rates, and the last 7 days.* |
 | ![Gift Tracker template — gift ideas, sizes and budgets, sorted by person](docs/screenshots/template-gift-tracker.png) | ![Game Score Tracker template — match history, winners and the leaderboard](docs/screenshots/template-game-score-tracker.png) |
 | *Gift Tracker: gift ideas, sizes and budgets, sorted by person.* | *Game Score Tracker: match history, winners and the leaderboard.* |
 | ![Recurring To-Dos template — recurring tasks with due dates that reset when done](docs/screenshots/template-recurring-todos.png) | ![Pet Day Tracker template — walks, meals and naps on one timeline](docs/screenshots/template-pet-day-tracker.png) |
@@ -31,7 +31,7 @@
 | ![Retro Organizer template — Palm-style datebook, to-dos, memos and contacts](docs/screenshots/template-retro-organizer.png) | ![App Hub template — pinned apps and links in one hub](docs/screenshots/template-app-hub.png) |
 | *Retro Organizer: datebook, to-dos, memos and contacts in one device.* | *App Hub: pinned apps and links, search and open in one tap.* |
 | ![Trivia Quiz template — timed quiz across four categories with score and streaks](docs/screenshots/template-trivia-quiz.png) | |
-| *Trivia Quiz: timed questions, score, streaks and a review.* | |
+| *Trivia Quiz: 40 timed questions, score, streaks and a review.* | |
 
 ## What is Muse Space?
 
@@ -75,8 +75,8 @@ Yes. Muse Space is released under the MIT License. You can copy, adapt, and reus
 ### Productivity
 | Template | What it does | Say it |
 |---|---|---|
-| [Focus Timer](templates/focus-pomodoro/) | Pomodoro timer plus today's focus stats. | "Give me a Pomodoro timer" |
-| [Habit Tracker](templates/habit-tracker/) | Streaks and a year heatmap. | "Start a habit tracker" |
+| [Focus Timer](templates/focus-pomodoro/) | Pomodoro timer, 7-day focus history and long breaks. | "Give me a Pomodoro timer" |
+| [Habit Tracker](templates/habit-tracker/) | Streaks, 7-day check-ins and completion rates. | "Start a habit tracker" |
 | [Task Board](templates/task-kanban/) | Three-column board with priority. | "Open my task board" |
 | [Recurring To-Dos](templates/recurring-todos/) | Recurring tasks with due dates that reset when done. | "Open my recurring tasks" |
 | [Idea Capture](templates/idea-capture/) | Catch an idea in seconds, sort it later. | "Open my idea box" |
@@ -88,7 +88,7 @@ Yes. Muse Space is released under the MIT License. You can copy, adapt, and reus
 |---|---|---|
 | [Budget Planner](templates/budget-planner/) | Monthly budget and category caps. | "Open my budget planner" |
 | [Expense Tracker](templates/expense-tracker/) | Log an expense in seconds. | "Open my expense tracker" |
-| [Subscription Tracker](templates/subscription-tracker/) | Renewals and yearly cost, no surprises. | "Show my subscriptions" |
+| [Subscription Tracker](templates/subscription-tracker/) | Renewals, yearly cost and what's due in 30 days. | "Show my subscriptions" |
 | [Savings Goals](templates/savings-goals/) | Goal progress and milestones. | "Open my savings goals" |
 | [Bill Tracker](templates/bill-tracker/) | Every bill, its due date and the best card to pay with. | "Open my bill tracker" |
 
@@ -103,9 +103,9 @@ Yes. Muse Space is released under the MIT License. You can copy, adapt, and reus
 | Template | What it does | Say it |
 |---|---|---|
 | [Study Planner](templates/study-planner/) | Timetable to review blocks. | "Open my study planner" |
-| [Flashcards](templates/flashcard-review/) | Spaced repetition, mastery levels. | "Open my flashcards" |
+| [Flashcards](templates/flashcard-review/) | Spaced repetition, mastery levels, weakest-first review. | "Open my flashcards" |
 | [Reading Tracker](templates/reading-tracker/) | Book list, progress, highlights. | "Open my reading tracker" |
-| [Trivia Quiz](templates/trivia-quiz/) | Timed quiz, score, streaks and a review. | "Start a quiz" |
+| [Trivia Quiz](templates/trivia-quiz/) | Timed quiz, 40 questions, score, streaks and a review. | "Start a quiz" |
 
 ### Life & Home
 | Template | What it does | Say it |

diff --git a/templates/trivia-quiz/README.md b/templates/trivia-quiz/README.md
@@ -1,8 +1,8 @@
 # Trivia Quiz — 趣味问答
 
-**What is Trivia Quiz?** A multiple-choice quiz game: ten quick questions, fifteen seconds each, with score, streak and a review of your misses.
+**What is Trivia Quiz?** A multiple-choice quiz game: ten quick questions from a bank of 40 across four categories, fifteen seconds each, with score, streak and a review of your misses.
 
-**趣味问答是什么？** 一款选择题问答游戏：每轮十道快问快答，每题 15 秒，带得分、连胜与错题回顾。
+**趣味问答是什么？** 一款选择题问答游戏：四分类共 40 道题，每轮十道快问快答，每题 15 秒，带得分、连胜与错题回顾。
 
 Category / 分类: Learn
 

diff --git a/templates/subscription-tracker/README.md b/templates/subscription-tracker/README.md
@@ -1,8 +1,8 @@
 # Subscription Tracker — 订阅管家
 
-**What is Subscription Tracker?** List every subscription, renewal date and yearly cost.
+**What is Subscription Tracker?** List every subscription, renewal date, yearly cost and what's due in 30 days.
 
-**订阅管家是什么？** 订阅清单、续费提醒、年支出。
+**订阅管家是什么？** 订阅清单、续费日期、年支出与 30 天内续费。
 
 Category / 分类: Money
 

diff --git a/templates/flashcard-review/README.md b/templates/flashcard-review/README.md
@@ -1,8 +1,8 @@
 # Flashcards — 闪卡复习
 
-**What is Flashcards?** Spaced repetition flashcards with mastery levels.
+**What is Flashcards?** Spaced repetition flashcards with mastery levels, weakest-first review and per-level counts.
 
-**闪卡复习是什么？** 间隔重复、掌握度。
+**闪卡复习是什么？** 间隔重复、掌握度，先练最弱卡片，按等级统计。
 
 Category / 分类: Learn
 

diff --git a/templates/focus-pomodoro/README.md b/templates/focus-pomodoro/README.md
@@ -1,8 +1,8 @@
 # Focus Timer — 专注时钟
 
-**What is Focus Timer?** A simple Pomodoro timer with today's focus stats.
+**What is Focus Timer?** A Pomodoro timer with a 7-day focus history and long breaks.
 
-**专注时钟是什么？** 番茄钟加今日专注统计。
+**专注时钟是什么？** 番茄钟加近 7 天专注记录与长休。
 
 Category / 分类: Productivity
 

diff --git a/templates/habit-tracker/README.md b/templates/habit-tracker/README.md
@@ -1,8 +1,8 @@
 # Habit Tracker — 习惯打卡
 
-**What is Habit Tracker?** Track streaks and see your year as a heatmap.
+**What is Habit Tracker?** Track streaks, 7-day check-ins and completion rates.
 
-**习惯打卡是什么？** 习惯连续天数与热力图。
+**习惯打卡是什么？** 习惯连续天数、近 7 天打卡与完成率。
 
 Category / 分类: Productivity
 
